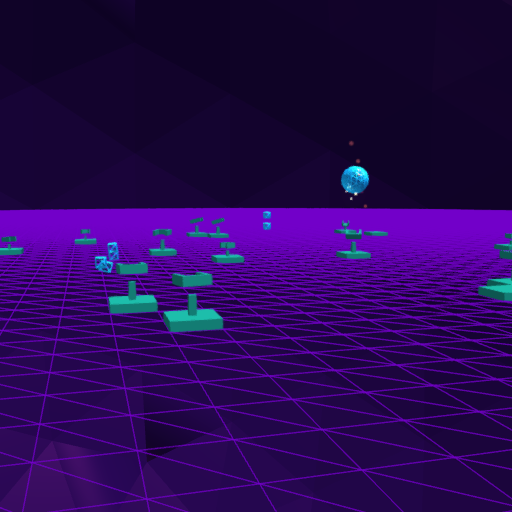
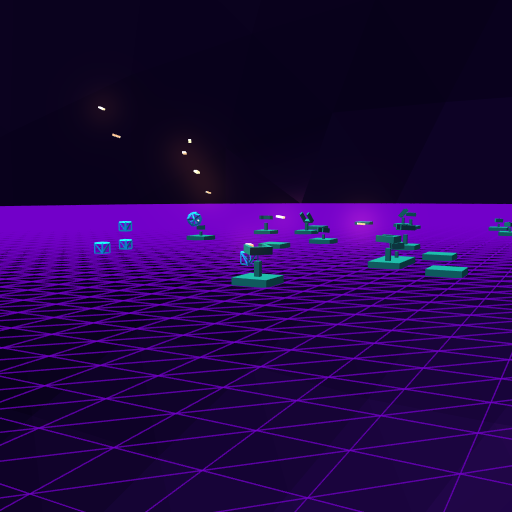
screenshots

diff --git a/src/js/main/globalVariables.ts b/src/js/main/globalVariables.ts
@@ -3,7 +3,7 @@ import { Color3, PhysicsImpostor, Mesh } from "babylonjs";
 const mapGlobals = {
   diagnosticsOn: false,
   demoSphere: false,
-  size: 1200, // map radius
+  size: 1600, // map radius
   optimizerOn: false,
   cameraCutDelay: 4200,
   rotateCameras: true,
@@ -51,12 +51,12 @@ const enemyGlobals = {
   minNumber: mapGlobals.size / 300, // for one generation
   maxNumber: mapGlobals.size / 30, // for one generation
   limit: mapGlobals.size / 10,
-  originHeight: 80,
+  originHeight: 30,
   generationRate: 8000, // milliseconds
   decisionRate: 200, // milliseconds
   speed: 8000,
   mass: 2000,
-  restitution: 0.1,
+  restitution: 0.2,
   jumpForce: 60,
   friction: 1,
   decayRate: 1, // hitpoints per decision
@@ -82,7 +82,6 @@ const renderGlobals = {
   bloom: true,
   screenshot: false
 };
-
 
 //@ts-ignore
 window.globals = {

diff --git a/src/js/main/cameras.ts b/src/js/main/cameras.ts
@@ -1,10 +1,4 @@
-import {
-  Scene,
-  ArcRotateCamera,
-  Vector3,
-  Tools,
-  Engine,
-} from "babylonjs";
+import { Scene, ArcRotateCamera, Vector3, Tools, Engine } from "babylonjs";
 import {
   mapGlobals,
   renderGlobals,
@@ -38,8 +32,8 @@ function cameras(scene: Scene, canvas: HTMLCanvasElement, engine: Engine) {
   // Camera4
   const camera4 = new ArcRotateCamera(
     "arcFollow1",
-    Math.PI / 6,
-    Math.PI / 3.5,
+    Math.PI / 2,
+    Math.PI / 12,
     mapGlobals.size / 6,
     Vector3.Zero(),
     scene

diff --git a/node/puppeteer.js b/node/puppeteer.js
@@ -38,7 +38,7 @@ const puppeteer = require("puppeteer");
           })
           .catch(err => Error(err));
         await browser.close();
-      }, 4100);
-    }, 2100);
-  }, 8200);
+      }, 2800);
+    }, 4600);
+  }, 6400);
 })();

diff --git a/README.md b/README.md
@@ -4,7 +4,7 @@
 
 When loaded, three cameras rotate in an interactive orbit around a plane where towers are randomly placed. Enemies will fall from the sky in the unoccupied areas and will make their way to the center.
 
-![Defend](https://raw.githubusercontent.com/xtreemze/defend/master/release/screenshot.png)
+![Defend](https://raw.githubusercontent.com/xtreemze/defend/master/release/screenshot2.png)
 
 ## Towers
 
